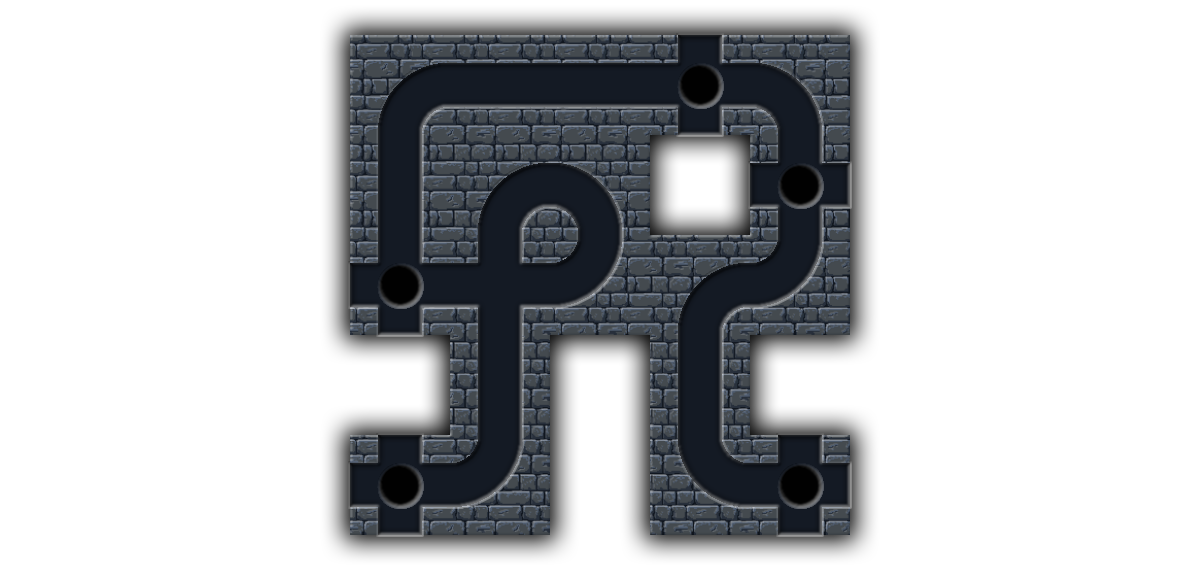
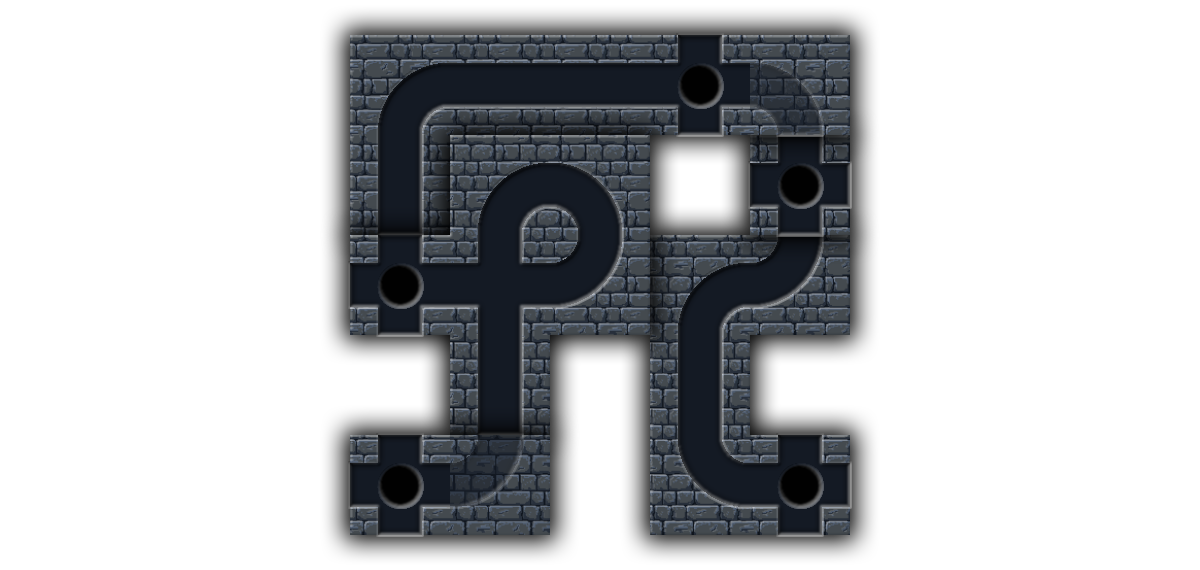
sexy

diff --git a/LHM/src/lhm/GUI.css b/LHM/src/lhm/GUI.css
@@ -54,7 +54,6 @@ and open the template in the editor.
 }
 
 .slider .thumb:hover{
-    -fx-effect: dropshadow(gaussian, rgba(88, 11, 37, 0.8) , 5, 1, 0, 0);
     -fx-effect: innershadow( one-pass-box , rgba(255,255,255,1.0) , 10, 0.3 , 0 , 0);
 }
 
@@ -106,7 +105,7 @@ and open the template in the editor.
 }
 
 #ball{
-    -fx-fill: #c51144;
+    -fx-effect: innershadow( one-pass-box , rgba(0,0,0,1.0) , 10, 0.3 , 0 , 0);
 }
 
 #bahn1{

diff --git a/out/production/Murmelbahn/lhm/GUI.css b/out/production/Murmelbahn/lhm/GUI.css
@@ -54,7 +54,6 @@ and open the template in the editor.
 }
 
 .slider .thumb:hover{
-    -fx-effect: dropshadow(gaussian, rgba(88, 11, 37, 0.8) , 5, 1, 0, 0);
     -fx-effect: innershadow( one-pass-box , rgba(255,255,255,1.0) , 10, 0.3 , 0 , 0);
 }
 
@@ -106,7 +105,7 @@ and open the template in the editor.
 }
 
 #ball{
-    -fx-fill: #c51144;
+    -fx-effect: innershadow( one-pass-box , rgba(0,0,0,1.0) , 10, 0.3 , 0 , 0);
 }
 
 #bahn1{

diff --git a/LHM/src/lhm/LHM.java b/LHM/src/lhm/LHM.java
@@ -31,6 +31,7 @@ import javafx.scene.layout.AnchorPane;
 import javafx.scene.layout.HBox;
 import javafx.scene.layout.Priority;
 import javafx.scene.paint.Color;
+import javafx.scene.paint.ImagePattern;
 import javafx.scene.paint.PhongMaterial;
 import javafx.scene.shape.*;
 import javafx.scene.shape.Shape;
@@ -52,6 +53,8 @@ public class LHM extends Application {
     Slider slider = new Slider(0.25,1.5,1);
     Label multilbl = new Label("x1.0");
     Circle ball = new Circle(20);
+    Image ballImg = new Image("lhm/Bilder/ball.png");
+    ImagePattern imgpattern = new ImagePattern(ballImg);
     final Path pfad = pfadErstellen();
     final PathTransition pfadtrans = generatePathTransition(ball,pfad);
 
@@ -62,13 +65,16 @@ public class LHM extends Application {
 
         AnchorPane root = new AnchorPane();
 
-        Scene scene = new Scene(root, 1200,800);
+        Scene scene = new Scene(root, 1200,820);
+
+        stage.getIcons().add(new Image("lhm/Bilder/icon.png"));
 
         Group circles = new Group();
 
         ball.setLayoutX(400);
         ball.setLayoutY(483);
         ball.setId("ball");
+        ball.setFill(imgpattern);
 
 
         circles.getChildren().add(pfad);
@@ -87,6 +93,8 @@ public class LHM extends Application {
         Image ebene4 = new Image("lhm/Bilder/Ebene4.png");
         Image ebene5 = new Image("lhm/Bilder/Ebene5.png");
         Image ebene0 = new Image("lhm/Bilder/Ebenen.png");
+
+
 
         Button pfeill = new Button();
         pfeill.setId("pfeill");
